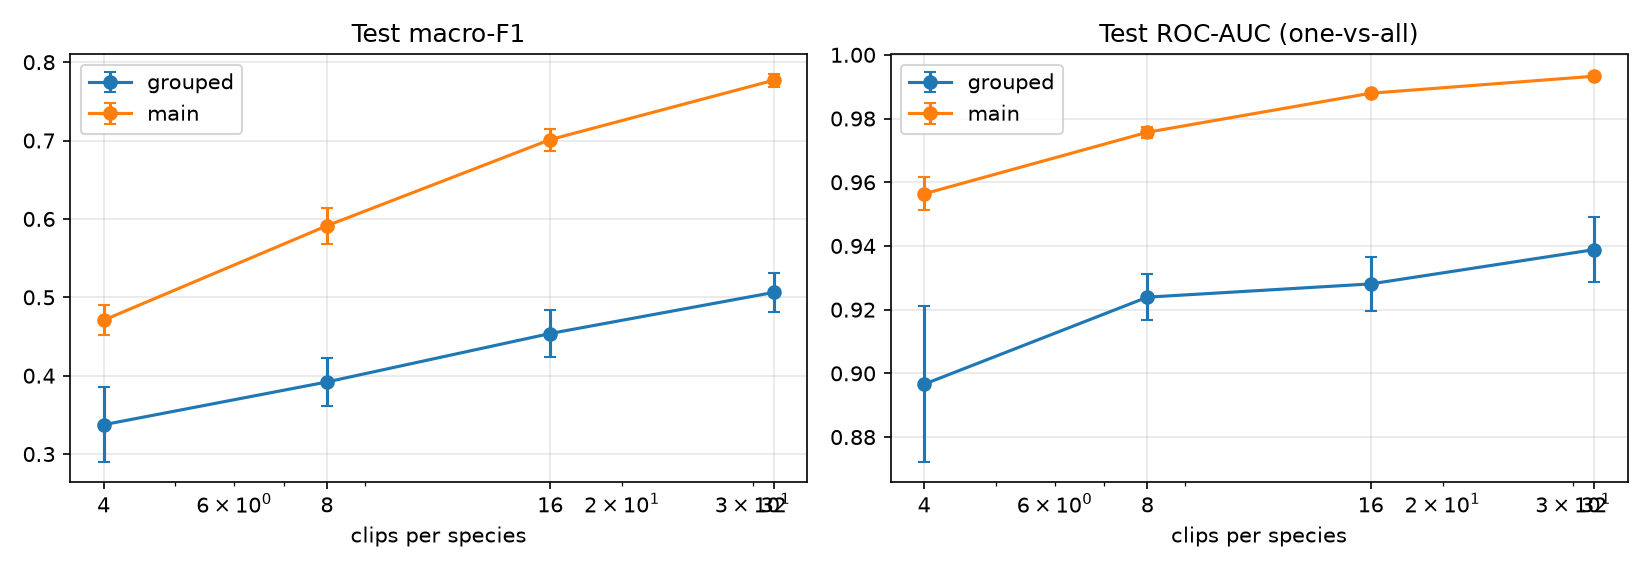
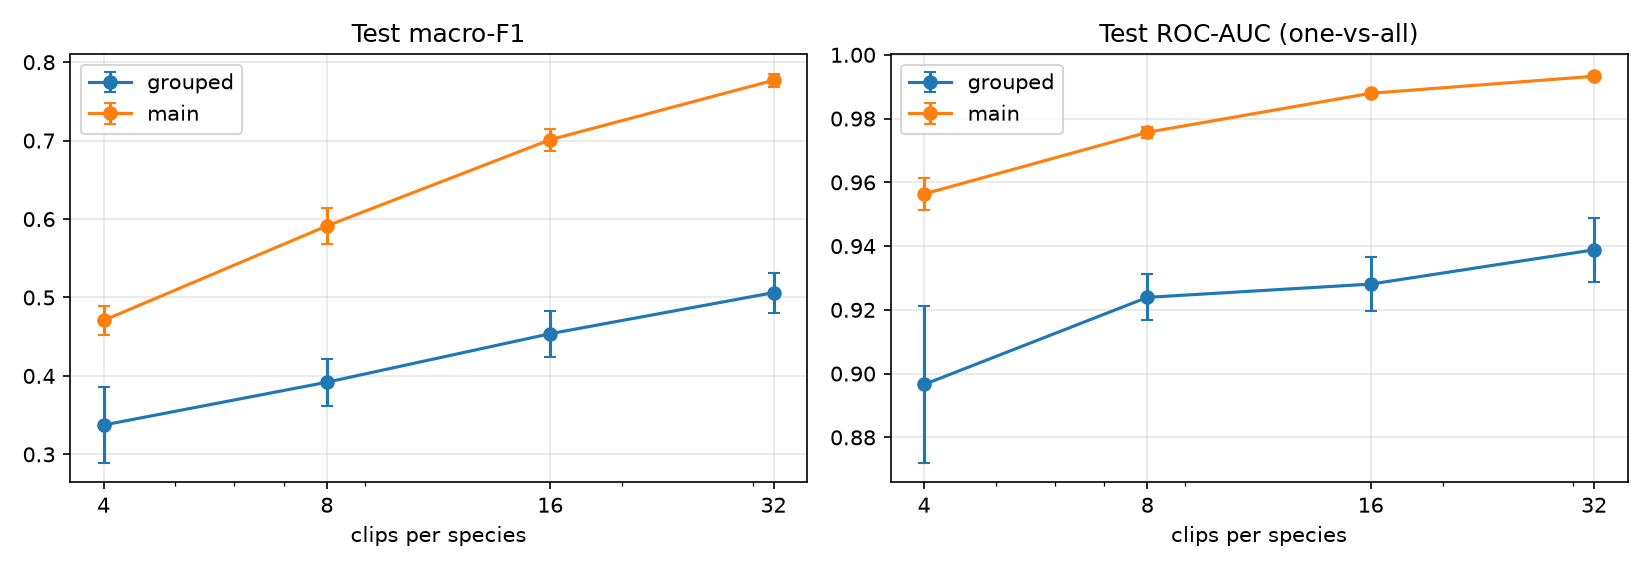
README: show result plots (comparison, UMAP, few-shot, per-species F1, exploration)

diff --git a/README.md b/README.md
@@ -21,6 +21,8 @@ When test recordings have been partly heard during training, the fine-tuned Effi
 clearly better**: +6 points accuracy, +0.06–0.08 macro-F1 over the best tuned EfficientNet. With only
 **32 clips per species**, Perch (macro-F1 0.51) already beats EfficientNet trained on all ~9,500 clips.
 
+![Test accuracy and macro-F1 of all models on both splits](outputs/evaluation/final_comparison.png)
+
 ## Status
 
 | Step | State |
@@ -139,6 +141,12 @@ multi_species 299, too_short 272, species_not_in_44 31, duplicate_audio 13, no_a
 
 A *recording* = the first 5 characters of the Watkins filename (tape/session), e.g. `61025` in `6102500A.wav`.
 
+![Clips and recordings per species after cleaning](outputs/exploration/clips_recordings_per_species.png)
+
+Example spectrograms (one clip per species, `Dataset_exploration.ipynb`):
+
+![Example spectrograms](outputs/exploration/example_spectrograms.png)
+
 ## Splits and why there are two
 
 | Split | Species | Method | Sizes (train / val / test) | What it measures |
@@ -180,6 +188,8 @@ lowest val loss. Seed 42, mixed precision.
 With clean data and the same clip-level split EfficientNet does *better* than in 2025, so the cleaning removed noise
 rather than an advantage. But **most of that accuracy depends on having heard the recording before**: split by
 recording, accuracy falls to ≈0.61 (mean per-class F1 on the 34 shared species 0.95 → 0.44).
+
+![Per-species F1 of EfficientNet on seen vs unseen recordings](outputs/evaluation/f1_seen_vs_unseen.png)
 
 ### Tuning on the grouped split (DL course Labs 3 and 5; one change at a time, 3 seeds each)
 
@@ -229,7 +239,12 @@ C chosen on validation macro-F1 from {0.001 … 10}, test evaluated once.
 | 16 | 0.45 | 0.93 | 0.70 | 0.99 |
 | 32 | 0.51 | 0.94 | 0.78 | 0.99 |
 
+![Few-shot macro-F1 and ROC-AUC vs clips per species](outputs/perch/few_shot.png)
+
 **What the embedding captures** (`outputs/perch/pca_umap.png`, `outputs/evaluation/perch_hdbscan.csv`)
+
+![PCA and UMAP of Perch 2.0 embeddings, coloured by species and by original sample rate](outputs/perch/pca_umap.png)
+
 - Without labels, UMAP separates several species into clear islands (killer whale, fin whale, sperm whale,
   long-finned pilot whale, pantropical spotted dolphin).
 - The large-scale layout also follows the original **sample rate** (low-rate baleen/killer-whale recordings vs
@@ -250,6 +265,8 @@ See `Models/Evaluation.ipynb`, `outputs/evaluation/final_comparison.png`.
   get F1 ≈ 0. The two models fail on different species.
 - Everything on unseen recordings is far below the seen-recording numbers: generalization to new recording
   conditions, not species recognition per se, is the hard part.
+
+![Per-species F1 on unseen recordings: Perch 2.0 vs EfficientNet_05](outputs/evaluation/per_class_f1_perch_vs_effnet05.png)
 
 ## Open questions / next steps
 
